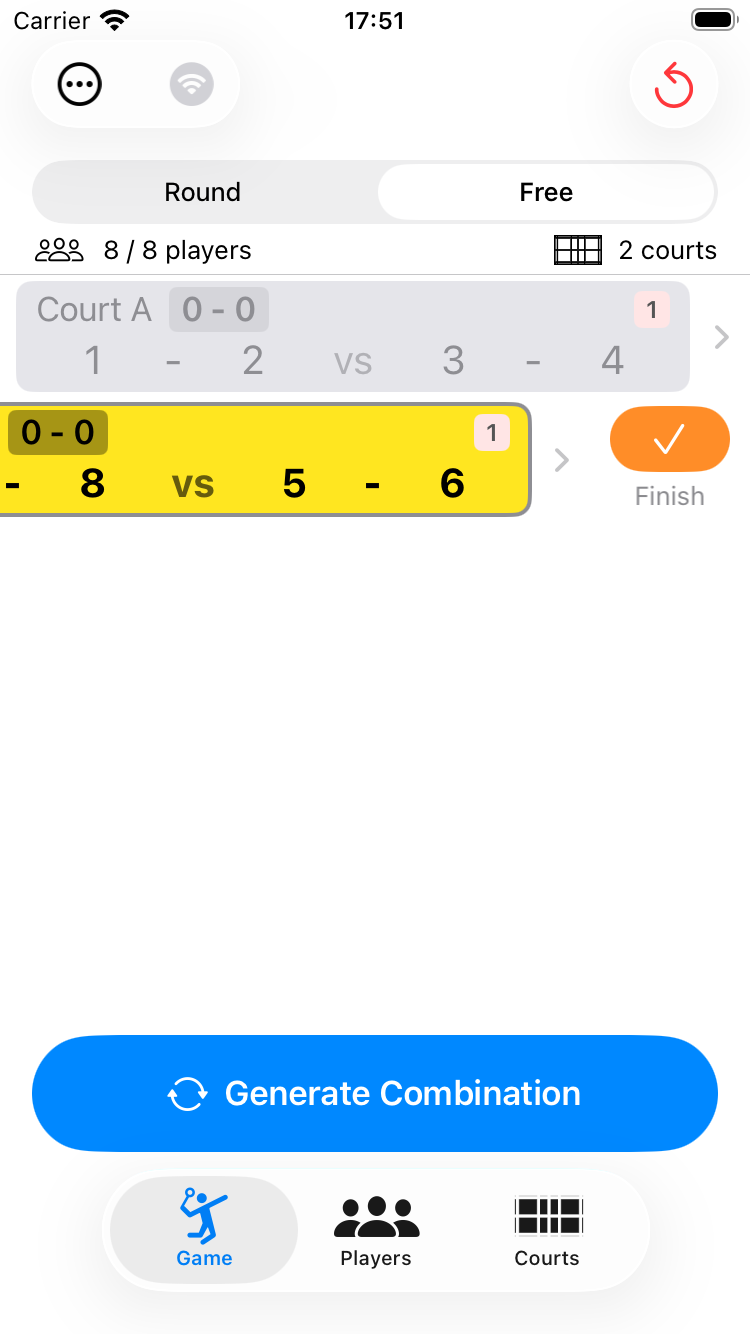
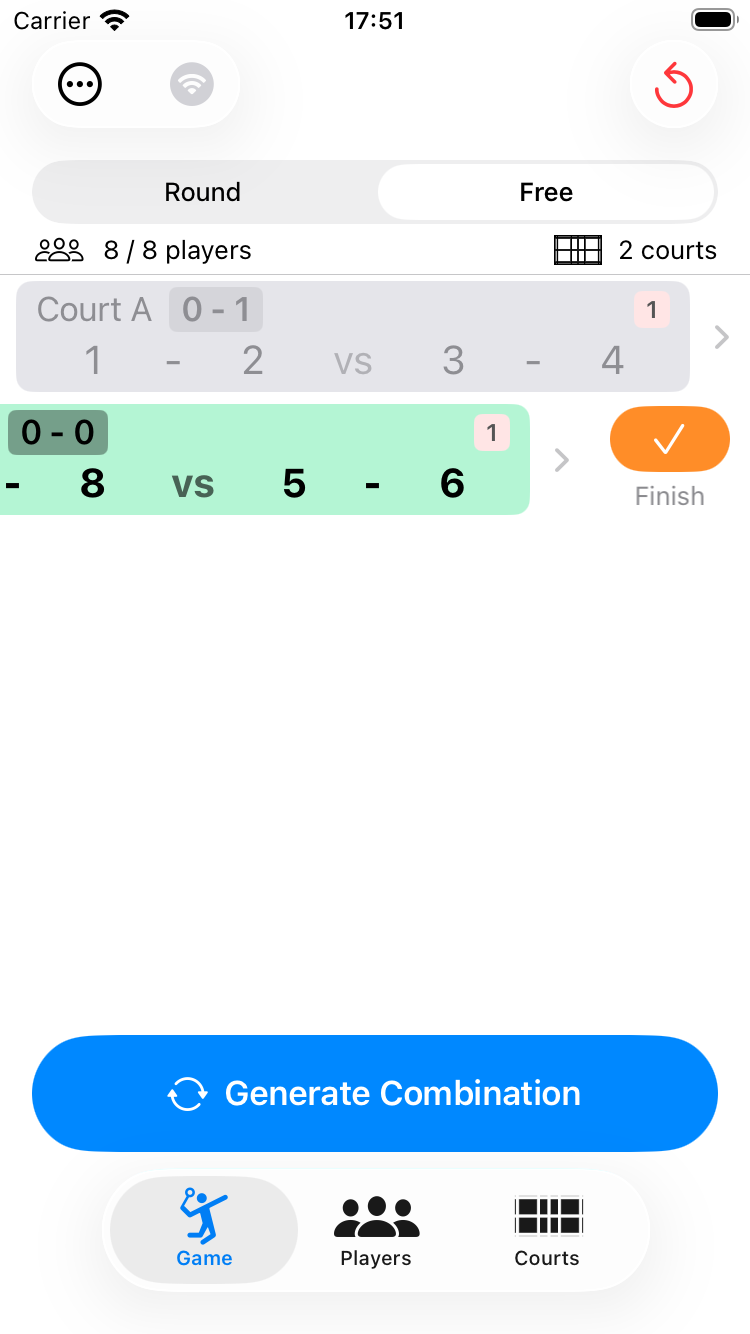
フリーモードのコート表示改善と切替条件変更をヘルプに反映

Changed region(s): [[0.0, 0.2766, 0.736, 0.3996], [0.3067, 0.2151, 0.3373, 0.2459]]

diff --git a/game-tab.html b/game-tab.html
@@ -52,13 +52,13 @@
 <h2 id="free-mode">2. フリーモード（動的コート割り当て）</h2>
 <p>Game タブ上部のモードセレクターで <strong>Free</strong>（フリー）を選ぶと、フリーモードに切り替わります。</p>
 <p>フリーモードでは、コートごとに試合の終了・再開を個別に管理できます。空いたコートだけに次の組み合わせが生成されるため、試合時間がバラバラでも効率よく進行できます。</p>
-<div class="note">⚠ フリーモードに切り替えるには、<strong>コートが2面以上</strong>かつ<strong>有効なプレイヤーが8人以上</strong>必要です。条件を満たさない場合はアラートが表示され、Round モードのままになります。</div>
+<div class="note">⚠ フリーモードに切り替えるには、<strong>1&amp;2混合コートを除いて2面以上</strong>かつ<strong>有効なプレイヤーが8人以上</strong>必要です。条件を満たさない場合はアラートが表示され、Round モードのままになります。</div>
 
 <h3>フリーモードの操作</h3>
 <ul>
   <li>試合が終わったら、そのコートの行を左スワイプして <strong>Finish</strong>（終了マーク）をタップ</li>
   <li><code>Generate Combination</code>（組み合わせ生成）で空きコートのみ次の組み合わせが生成されます</li>
-  <li>終了済みコートは灰色、新しく割り当てられたコートは黄色でハイライトされます</li>
+  <li>終了済みコートは灰色、進行中のコートは黄色と緑を交互に表示します（一覧の見やすさのための色分けで、コートの状態を表すものではありません）</li>
 </ul>
 <div class="ss"><img src="images/advanced-free-mode.png" alt="フリーモードのコート一覧"></div>
 <div class="ss"><img src="images/advanced-free-mode-swipe.png" alt="コートの行を左スワイプして Finish ボタンを表示した状態"></div>
@@ -143,7 +143,7 @@
 
 <h4 id="connect">他の端末から接続する</h4>
 <p>接続する端末を、マスター端末と同じ Wi-Fi に接続してください。サーバー起動中に Wi-Fi アイコンをタップすると、接続用の URL と QR コードが表示されます。QR コードを読み取るか、URL を直接ブラウザで開いてください。</p>
-<div class="tip">💡 体育館など会場に Wi-Fi がない場合は、マスター端末（iPhone）の「設定」→「インターネット共有」でパーソナルホットスポットをオンにし、他の端末をそのホットスポットに接続すれば、Wi-Fi がなくてもサーバー機能を利用できます。</div>
+<div class="tip">💡 体育館など会場に Wi-Fi がない場合は、いずれかの iPhone（マスター端末である必要はありません）の「設定」→「インターネット共有」でパーソナルホットスポットをオンにし、マスター端末を含む他の端末をそのホットスポットに接続すれば、Wi-Fi がなくてもサーバー機能を利用できます。</div>
 <div class="ss"><img src="images/server-qr.png" alt="QRコード表示画面"></div>
 
 <h4 id="web-features">Web ページでできること</h4>

diff --git a/update-history.html b/update-history.html
@@ -28,6 +28,8 @@
   <li>スコア入力画面のレイアウトを全面的に整理。「Finished」トグルを画面最上部に移動し、得点ボタンを大きな正方形ボタンに変更してスコアの数字を直接表示するように統合（従来の得点表示とボタンをひとつにまとめ、タップ操作をより分かりやすく）</li>
   <li>iPad の縦画面で、スコア入力画面の得点ボタンが中央に揃わず片側に寄って表示されてしまう不具合を修正</li>
   <li>iPad でスコア入力画面からコート一覧に戻る操作ができない不具合を修正（画面左上に戻るボタンを表示）</li>
+  <li>フリーモードのコート一覧表示を変更。直近更新コートのグレー枠線強調を廃止し、進行中のコートは一覧の並び順で黄色・緑を交互に表示するように変更</li>
+  <li>フリーモードへの切替条件を変更。コート数の判定から 1&amp;2 混合コートを除外し、警告文にもフリーモードの説明を追記</li>
 </ul>
 
 <h2>v1.19.0</h2>
